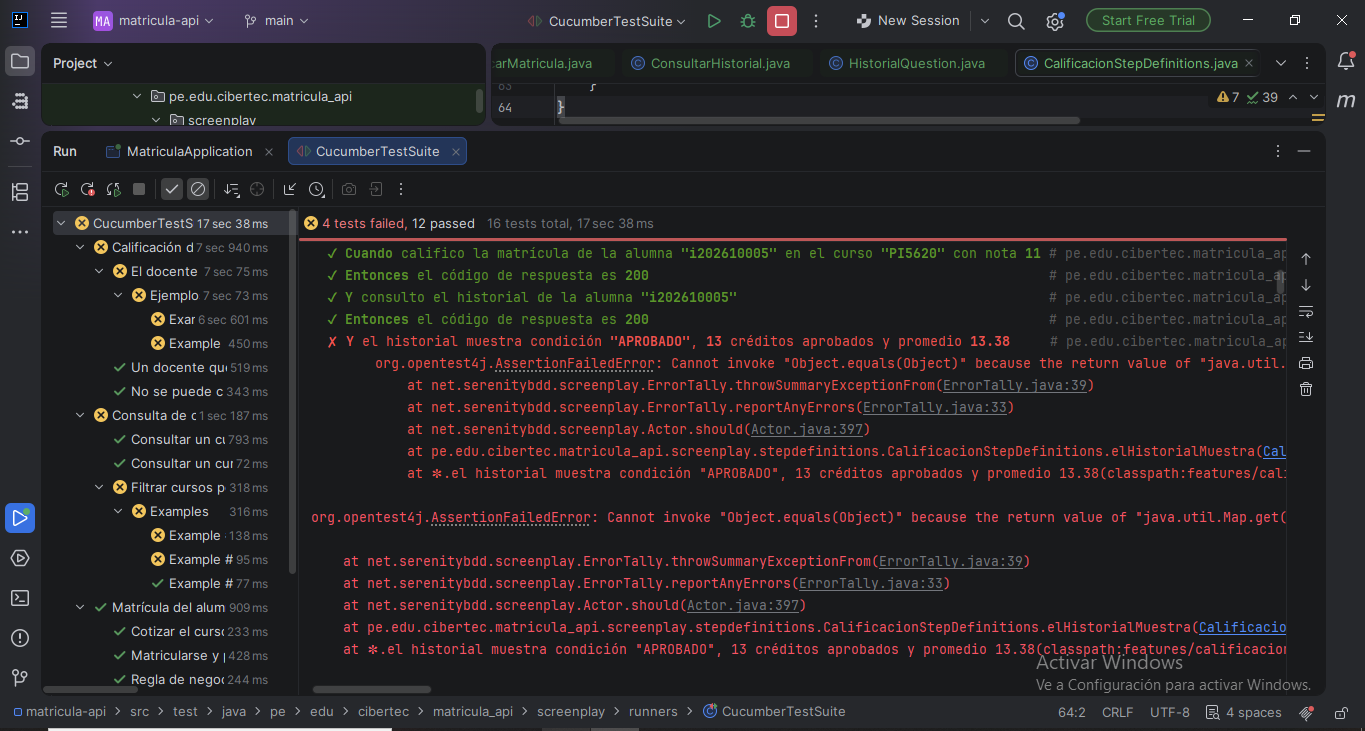
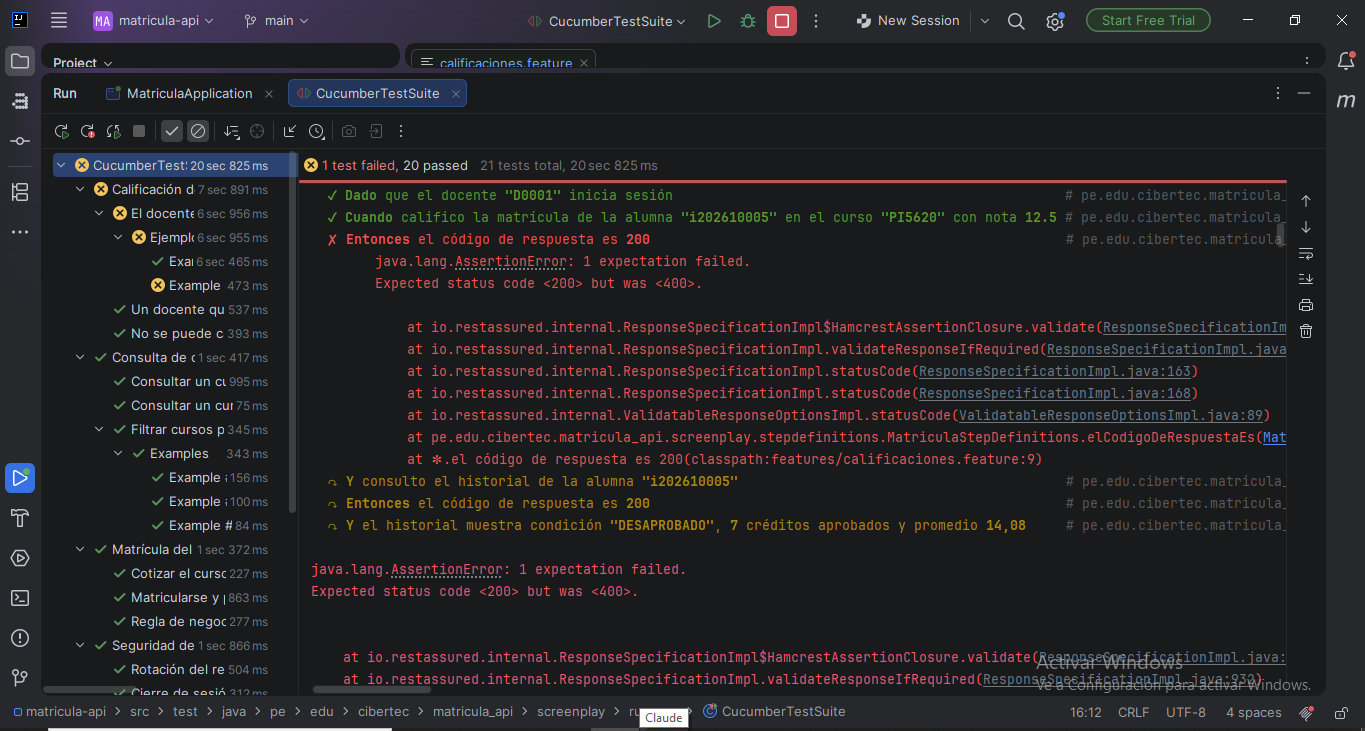
Revisión final

diff --git a/src/test/java/pe/edu/cibertec/matricula_api/screenplay/stepdefinitions/SeguridadStepDefinitions.java b/src/test/java/pe/edu/cibertec/matricula_api/screenplay/stepdefinitions/SeguridadStepDefinitions.java
@@ -2,7 +2,6 @@ package pe.edu.cibertec.matricula_api.screenplay.stepdefinitions;
 
 import io.cucumber.java.es.Cuando;
 import io.cucumber.java.es.Dado;
-import io.cucumber.java.es.Entonces;
 import net.serenitybdd.rest.SerenityRest;
 import net.serenitybdd.screenplay.Actor;
 import net.serenitybdd.screenplay.rest.abilities.CallAnApi;
@@ -38,6 +37,13 @@ public class SeguridadStepDefinitions {
         actor.attemptsTo(RenovarToken.con(refresh));
     }
 
+    @Cuando("intento consultar mi perfil con el token nuevo")
+    public void intentoConsultarMiPerfilConElTokenNuevo() {
+        String token = actor.recall("nuevoToken");
+        actor.attemptsTo(Get.resource("/api/auth/perfil")
+                .with(req -> req.header("Authorization", "Bearer " + token)));
+    }
+
     @Cuando("cierro la sesión")
     public void cierroLaSesion() {
         actor.attemptsTo(CerrarSesion.ahora());
@@ -46,14 +52,13 @@ public class SeguridadStepDefinitions {
     @Cuando("consulto mi perfil con el token anterior")
     public void consultoMiPerfilConElTokenAnterior() {
         String token = actor.recall("token");
-        actor.attemptsTo(Get.resource("/api/auth/perfil").with(req -> req.header("Authorization", "Bearer " + token)));
+        actor.attemptsTo(Get.resource("/api/auth/perfil")
+                .with(req -> req.header("Authorization", "Bearer " + token)));
     }
 
-    @Dado("que el alumno {string} intenta iniciar sesión con clave incorrecta 5 veces")
-    public void intentaIniciarSesionConClaveIncorrecta5Veces(String usuario) {
-        for (int i = 0; i < 5; i++) {
-            actor.attemptsTo(IniciarSesion.con(usuario, "ClaveIncorrecta123"));
-        }
+    @Cuando("el alumno {string} intenta iniciar sesión con clave incorrecta en el intento {int}")
+    public void intentaConClaveIncorrectaEnElIntento(String usuario, int intento) {
+        actor.attemptsTo(IniciarSesion.con(usuario, "ClaveIncorrecta123"));
     }
 
     @Cuando("intento iniciar sesión con la clave correcta")
@@ -64,12 +69,7 @@ public class SeguridadStepDefinitions {
     @Cuando("intento listar todos los alumnos")
     public void intentoListarTodosLosAlumnos() {
         String token = actor.recall("token");
-        actor.attemptsTo(Get.resource("/api/alumnos").with(req -> req.header("Authorization", "Bearer " + token)));
-    }
-
-    // Este es el único "Entonces" que es exclusivo de esta clase
-    @Entonces("el quinto intento devuelve código {int}")
-    public void elQuintoIntentoDevuelveCodigo(int codigo) {
-        SerenityRest.lastResponse().then().statusCode(codigo);
+        actor.attemptsTo(Get.resource("/api/alumnos")
+                .with(req -> req.header("Authorization", "Bearer " + token)));
     }
 }

diff --git a/src/test/java/pe/edu/cibertec/matricula_api/screenplay/stepdefinitions/CalificacionStepDefinitions.java b/src/test/java/pe/edu/cibertec/matricula_api/screenplay/stepdefinitions/CalificacionStepDefinitions.java
@@ -13,7 +13,6 @@ import pe.edu.cibertec.matricula_api.screenplay.task.IniciarSesion;
 
 import java.util.Map;
 import static net.serenitybdd.screenplay.GivenWhenThen.seeThat;
-import static org.hamcrest.Matchers.equalTo;
 
 public class CalificacionStepDefinitions {
 
@@ -27,13 +26,11 @@ public class CalificacionStepDefinitions {
 
     @Cuando("califico la matrícula de la alumna {string} en el curso {string} con nota {double}")
     public void calificoLaMatricula(String alumno, String curso, double nota) {
-        // Obtener el token de la alumna para buscar su matrícula
         SerenityRest.given().contentType("application/json")
                 .body(Map.of("username", alumno, "password", "Cibertec2026"))
                 .post("http://localhost:8080/api/auth/login");
         String tokenAlumna = SerenityRest.lastResponse().jsonPath().getString("accessToken");
 
-        // Consultar la matrícula
         SerenityRest.given().header("Authorization", "Bearer " + tokenAlumna)
                 .get("http://localhost:8080/api/matriculas?alumno=" + alumno + "&curso=" + curso);
 
@@ -47,7 +44,6 @@ public class CalificacionStepDefinitions {
 
     @Cuando("consulto el historial de la alumna {string}")
     public void consultoElHistorial(String alumno) {
-        // El historial lo consulta la alumna
         SerenityRest.given().contentType("application/json")
                 .body(Map.of("username", alumno, "password", "Cibertec2026"))
                 .post("http://localhost:8080/api/auth/login");
@@ -59,6 +55,6 @@ public class CalificacionStepDefinitions {
 
     @Entonces("el historial muestra condición {string}, {int} créditos aprobados y promedio {double}")
     public void elHistorialMuestra(String condicion, int creditos, double promedio) {
-        actor.should(seeThat(HistorialQuestion.con(creditos, promedio), equalTo(true)));
+        actor.should(seeThat(HistorialQuestion.con(condicion, creditos, promedio)));
     }
 }

diff --git a/src/test/java/pe/edu/cibertec/matricula_api/screenplay/questions/HistorialQuestion.java b/src/test/java/pe/edu/cibertec/matricula_api/screenplay/questions/HistorialQuestion.java
@@ -5,25 +5,26 @@ import net.serenitybdd.screenplay.Question;
 import net.serenitybdd.rest.SerenityRest;
 
 public class HistorialQuestion implements Question<Boolean> {
+    private final String condicion;
     private final int creditos;
     private final double promedio;
 
-    public HistorialQuestion(int creditos, double promedio) {
+    public HistorialQuestion(String condicion, int creditos, double promedio) {
+        this.condicion = condicion;
         this.creditos = creditos;
         this.promedio = promedio;
     }
 
-    public static HistorialQuestion con(int creditos, double promedio) {
-        return new HistorialQuestion(creditos, promedio);
+    public static HistorialQuestion con(String condicion, int creditos, double promedio) {
+        return new HistorialQuestion(condicion, creditos, promedio);
     }
 
     @Override
     public Boolean answeredBy(Actor actor) {
-        int creditosActuales = SerenityRest.lastResponse().jsonPath().getInt("creditosAprobados");
-        float promedioActual = SerenityRest.lastResponse().jsonPath().getFloat("promedioPonderado");
-
-        // Retorna true si los créditos y el promedio coinciden (con un margen de error de 0.1)
-        return creditosActuales == creditos
-                && Math.abs(promedioActual - promedio) < 0.1;
+        var json = SerenityRest.lastResponse().jsonPath();
+        String condicionActual = json.getString("cursos.find { it.codigoCurso == 'PI5620' }.condicion");
+        return condicion.equals(condicionActual)
+                && json.getInt("creditosAprobados") == creditos
+                && Math.abs(json.getDouble("promedioPonderado") - promedio) < 0.01;
     }
 }

diff --git a/src/test/java/pe/edu/cibertec/matricula_api/screenplay/stepdefinitions/MatriculaStepDefinitions.java b/src/test/java/pe/edu/cibertec/matricula_api/screenplay/stepdefinitions/MatriculaStepDefinitions.java
@@ -94,7 +94,21 @@ public class MatriculaStepDefinitions {
         SerenityRest.given()
                 .header("Authorization", "Bearer " + token)
                 .get("http://localhost:8080/api/pagos?alumno=i202610001");
-        SerenityRest.lastResponse().then().body("metodo", hasItem(metodo));
-        SerenityRest.lastResponse().then().body("numeroOperacion", everyItem(startsWith("OP-")));
+        var json = SerenityRest.lastResponse().jsonPath();
+        String filtro = "find { it.idMatricula.toString() == '" + idMatricula + "' }";
+        org.hamcrest.MatcherAssert.assertThat(json.getString(filtro + ".metodo"), equalTo(metodo));
+        org.hamcrest.MatcherAssert.assertThat(json.getString(filtro + ".numeroOperacion"),
+                matchesPattern("OP-\\d{6}"));
+    }
+    @Entonces("la respuesta de matrícula cumple el esquema {string}")
+    public void laRespuestaDeMatriculaCumpleElEsquema(String esquema) {
+        SerenityRest.lastResponse().then().assertThat()
+                .body(io.restassured.module.jsv.JsonSchemaValidator
+                        .matchesJsonSchemaInClasspath("schemas/" + esquema));
+    }
+    @Entonces("la matrícula tiene fecha de pago")
+    public void laMatriculaTieneFechaDePago() {
+        String fecha = SerenityRest.lastResponse().jsonPath().getString("fechaPago");
+        org.hamcrest.MatcherAssert.assertThat(fecha, not(emptyOrNullString()));
     }
 }

diff --git a/src/test/java/pe/edu/cibertec/matricula_api/screenplay/stepdefinitions/Hooks.java b/src/test/java/pe/edu/cibertec/matricula_api/screenplay/stepdefinitions/Hooks.java
@@ -15,7 +15,7 @@ public class Hooks {
 
         // 2. Tus datos
         String nombre = "FREDDY PENAGOS";
-        String codigo = "I202504051";
+        String codigo = "I202504061";
         String fechaHora = LocalDateTime.now().format(DateTimeFormatter.ofPattern("dd/MM/yyyy HH:mm:ss"));
 
         System.out.println("=====================================================");

diff --git a/INFORME.md b/INFORME.md
@@ -1,13 +1,24 @@
 # Informe de Examen - Pruebas de Software
-Alumno: FREDDY PENAGOS
-Código: I202504051
+**Curso:** 2424 – Pruebas de Software | **Evaluación:** Continua T1
+**Alumno:** FREDDY PENAGOS
+**Código:** I202504051 (D = 1)
+**Repositorio:** https://github.com/Luisyano/matricula-api
 
-## Pregunta 1: Automatización BDD con Gherkin + Cucumber
+**Datos de mi fila (D = 1):** alumno `i202610001`, curso `PI5620`, método de pago `TARJETA`, regla que debe fallar: cotizar `PS5511`, `QA5517`, `DM5512`, `TS5514`, `SA5516` y `BD5410`.
 
-### Captura de la ejecución (Consola con Hook)
-![Captura de la consola](captura_consola.png.png)
+**Resultado final:** 21 pruebas ejecutadas, 21 exitosas.
 
-### Tabla de cálculo - Cotización PI5620
+---
+
+## Pregunta 1: Automatización BDD con Gherkin + Cucumber y Rest Assured
+
+Archivos: `matricula.feature` (en español) y `MatriculaStepDefinitions.java`. El id de la matrícula se toma de la respuesta de la API, no está escrito fijo.
+
+### Captura de la ejecución (consola con Hook)
+![Captura P1](captura_p1.png)
+![Captura P1 (continuación)](captura_p1.2.png)
+
+### Escenario 1: Cotizar el curso PI5620
 | Concepto | Cálculo | Monto |
 | :--- | :--- | :--- |
 | **Créditos del curso** | - | 6 |
@@ -15,35 +26,87 @@ Código: I202504051
 | **Descuento (20%)** | 720 × 0.20 (promedio 18) | - S/ 144.0 |
 | **Total a pagar** | 720 - 144 | **S/ 576.0** |
 
-**Explicación del error (Límite de créditos):**
-La cotización de los 6 cursos falla con código HTTP 422 y el código `LIMITE_CREDITOS` porque la suma de créditos supera el tope máximo de 24 permitidos por periodo.
+Verificado: código 200 y total `576.0`.
+
+### Escenario 2: Matricularse y pagar
+| Verificación | Valor esperado |
+| :--- | :--- |
+| Crear matrícula | 201, estado `REGISTRADA`, monto `576.0` (igual a la cotización) |
+| Esquema de la respuesta | cumple `schemas/matricula.json` |
+| Pagar con `TARJETA` | 200, estado `PAGADA`, `fechaPago` con valor |
+| `GET /api/pagos` | existe el pago de la matrícula (mismo `idMatricula`), método `TARJETA` y `numeroOperacion` con formato `OP-000000` |
+
+### Escenario 3: Regla de negocio que debe fallar
+La cotización de los 6 cursos responde **HTTP 422** con el código de error **`LIMITE_CREDITOS`**, y la respuesta cumple `schemas/error.json`.
+
+**Explicación:** la regla que produce el error es el tope máximo de 24 créditos por periodo: la suma de créditos de los 6 cursos lo supera. Las demás validaciones (alumno existente, cursos existentes, sesión con token válido) sí se cumplen, por eso no detienen la petición antes y se llega a evaluar el límite de créditos sobre el total solicitado.
+
+---
 
 ## Pregunta 2: Seguridad de la API con Serenity Screenplay
 
-### Captura de la ejecución (Consola con Hook)
-![Captura de la consola P2](captura_seguridad_consola.png)
+Archivos: `seguridad.feature` (en español), `SeguridadStepDefinitions.java` y las Tasks `IniciarSesion`, `RenovarToken` y `CerrarSesion`. El actor tiene la habilidad `CallAnApi` y guarda sus tokens con `remember` y `recall`.
+
+### Captura de la ejecución (consola con Hook)
+![Captura P2](captura_p2.png)
+![Captura P2 (continuación)](captura_p2.2.png)
+![Captura P2 (continuación)](captura_p2.3.png)
+
+### Códigos de error descubiertos
+| Escenario | HTTP | `codigo` |
+| :--- | :--- | :--- |
+| Refresh token reutilizado | 401 | `REFRESH_REUTILIZADO` |
+| Access token nuevo después del reuso | 401 | `TOKEN_INVALIDO` |
+| Logout | 204 | - |
+| Perfil después de cerrar sesión | 401 | `TOKEN_INVALIDO` |
+| Intentos 1 a 4 con clave incorrecta (`i202610004`) | 401 | `CREDENCIALES_INVALIDAS` |
+| Intento 5 con clave incorrecta | 423 | `CUENTA_BLOQUEADA` |
+| Clave correcta después del bloqueo | 423 | `CUENTA_BLOQUEADA` |
+| Alumno `i202610001` lista alumnos (`GET /api/alumnos`) | 403 | `ACCESO_DENEGADO` |
+
+Todas las respuestas de error cumplen `schemas/error.json`.
 
 ### Respuestas a las preguntas teóricas
 
 **1. ¿Por qué el accessToken nuevo también es rechazado después de usar el refresh token por segunda vez?**
-El nuevo accessToken es rechazado porque, al intentar reutilizar un refresh token que ya había sido usado, la API lo interpreta como un posible robo de sesión. Como medida de seguridad, invalida inmediatamente todas las sesiones activas de ese usuario, incluyendo los tokens recién generados.
+Al intentar reutilizar un refresh token que ya había sido usado, la API lo interpreta como un posible robo de sesión. Como medida de seguridad, invalida todas las sesiones activas de ese usuario, incluyendo los tokens recién generados.
 
 **2. ¿Por qué con la clave correcta tampoco puede ingresar después de 5 intentos fallidos?**
-Porque la cuenta se bloquea automáticamente por 15 minutos como mecanismo de protección contra ataques de fuerza bruta. Este bloqueo impide cualquier intento de inicio de sesión, independientemente de si la contraseña ingresada es correcta o no.
+Porque la cuenta se bloquea automáticamente por 15 minutos como protección contra ataques de fuerza bruta. El bloqueo impide cualquier intento de inicio de sesión, sea correcta o no la clave.
 
+---
 
 ## Pregunta 3: Calificaciones e historial
+
+Archivos: `calificaciones.feature` (en español), `CalificacionStepDefinitions.java`, las Tasks `CalificarMatricula` y `ConsultarHistorial`, y la Question `HistorialQuestion`. El id de la matrícula se obtiene con `GET /api/matriculas` usando el token de la alumna, y la respuesta del historial cumple `schemas/historial.json`.
+
+### Captura de la ejecución (consola con Hook)
+![Captura P3](captura_p3.png)
+
+### Captura del reporte de Serenity
+![Reporte Serenity](captura_serenity_p3.png)
+![Reporte Serenity (segunda vista)](captura_serenity_p3.2.png)
+![Reporte Serenity (detalle)](captura_serenity_p3_detalle.png)
+
+### Tabla de cálculo del historial
+Historial de Rosa Medina (`i202610005`): AS5402 (3 créditos, nota 16, APROBADO), LP5401 (4 créditos, nota 15, APROBADO) y PI5620 (6 créditos, nota según la fila).
+
+| Nota en PI5620 | Condición | Créditos aprobados | Cálculo del promedio ponderado | Promedio |
+| :--- | :--- | :--- | :--- | :--- |
+| 11 | DESAPROBADO | 7 | (16×3 + 15×4 + 11×6) / 13 = 174 / 13 | 13,38 |
+| 12,5 | DESAPROBADO | 7 | (16×3 + 15×4 + 12,5×6) / 13 = 183 / 13 | 14,08 |
+
+PI5620 queda DESAPROBADO con 11 y con 12,5 porque la nota mínima aprobatoria es 13. Por eso solo suman los créditos de AS5402 y LP5401 (3 + 4 = 7). El promedio ponderado sí incluye los tres cursos (13 créditos).
+
+### Escenarios adicionales
+| Escenario | HTTP | `codigo` |
+| :--- | :--- | :--- |
+| Docente `D0002` (no dicta el curso) intenta calificar | 403 | `ACCESO_DENEGADO` |
+| Calificar la matrícula de PS5511 (no pagada) | 409 | `MATRICULA_NO_PAGADA` |
 
 ### Captura del error con el punto decimal
 ![Error del 12.5](captura_error_p3.png)
 
-**Explicación:** El error ocurrió al escribir `12.5` (con punto) en el archivo `.feature`. Debido a la configuración regional de español, el sistema interpretó el punto como separador de miles (enviando 125), lo cual es una nota inválida. La solución es usar `12,5` (con coma) para que el sistema lo reconozca como un decimal.
+**Qué ocurre:** al escribir `12.5` (con punto) en la tabla de Ejemplos, el paso `el código de respuesta es 200` falla con `Expected status code <200> but was <400>`: la API respondió HTTP **400** (solicitud inválida) al registrar la nota. Los pasos siguientes (consultar el historial) quedan omitidos. En esa misma ejecución la fila con nota 11 pasó correctamente (20 pruebas exitosas y 1 fallida, de 21).
 
-### Captura final (todo en verde)
-![Captura final P3](captura_final_p3.png)
-
-### Tabla de cálculo del historial
-| Nota en PI5620 | Créditos aprobados | Cálculo del promedio ponderado | Promedio |
-| :--- | :--- | :--- | :--- |
-| 11 | 13 | (15×4 + 16×3 + 11×6) / 13 | 13.38 |
-| 12.5 | 13 | (15×4 + 16×3 + 12.5×6) / 13 | 14.08 |
+**Causa:** el feature está escrito en español (`# language: es`), por lo que Cucumber interpreta los números decimales con la configuración regional española, donde el punto es separador de miles y la coma es el separador decimal. Así, `12.5` se lee como 125, que es una nota inválida (fuera del rango 0 a 20). La solución es escribir `12,5` con coma. Por la misma razón, los promedios esperados se escriben `13,38` y `14,08` en el feature.
